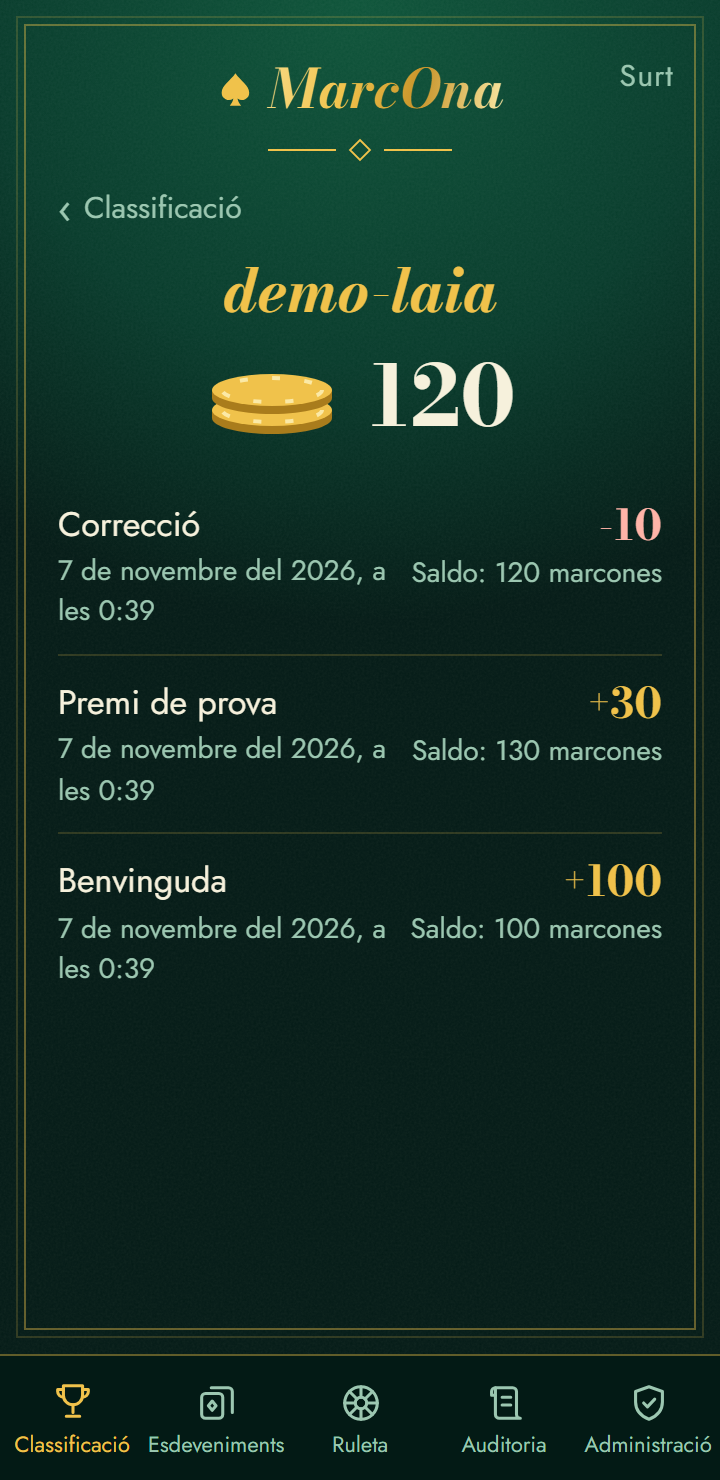
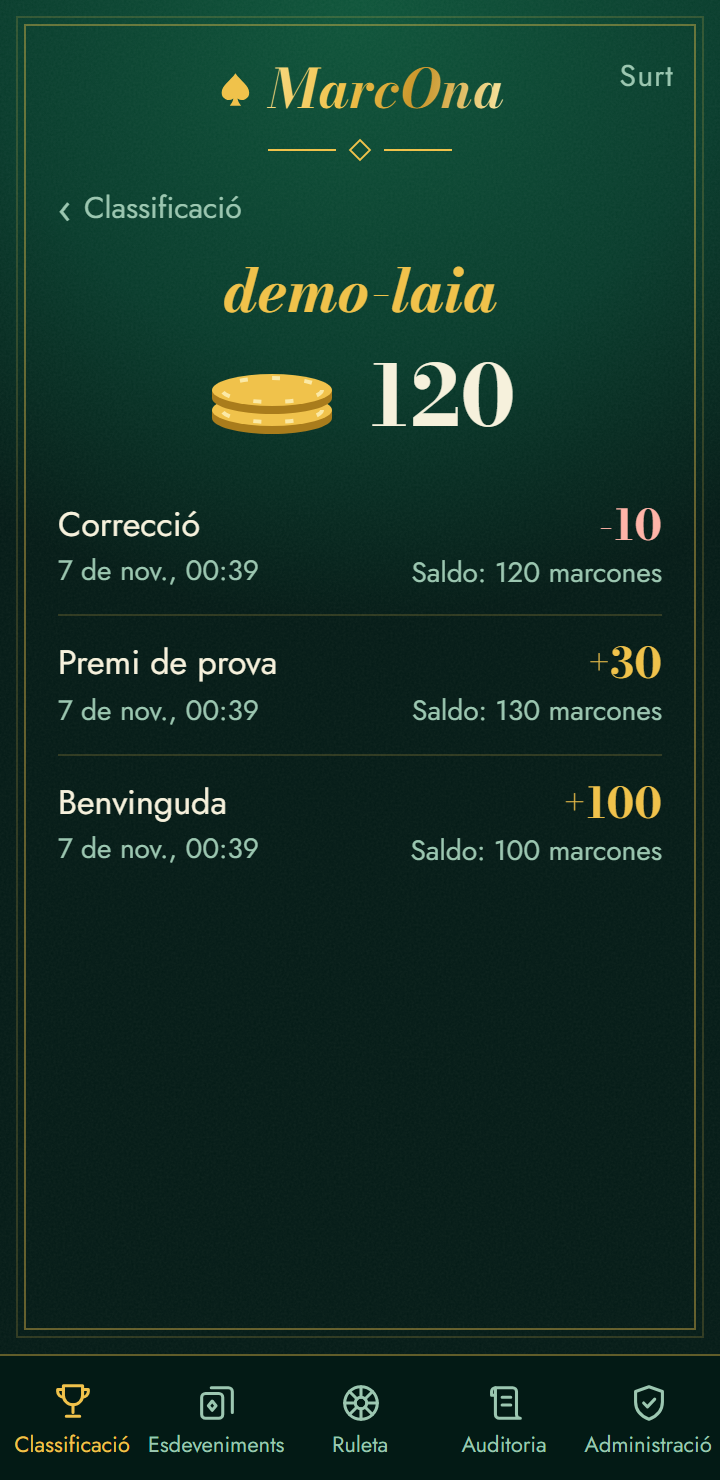
docs(review): write the slice 002 review instructions
Slice: 002

diff --git a/slices/002-users-and-marcones/review.md b/slices/002-users-and-marcones/review.md
@@ -1,0 +1,161 @@
+# Slice 002 review
+
+## 1. What to look at
+
+MarcOna now has people and money. As the admin you can create users, add or remove marcones, reset passwords and remove users. Everyone can see the ranking, anyone's movements and the audit, with chip stacks and numbers that count up.
+
+Behind the screens are the rules every later slice relies on: an append-only ledger, balances that can't go below 0, double taps that apply once, and removal that takes effect immediately.
+
+This should take about 10 minutes. You'll use your phone as the admin, and a computer as a player.
+
+## 2. Before you start
+
+- **You need:** your phone, a computer, and your admin username and password from `docs/setup.md`, step 7. The password stays with you, and it isn't in this file.
+- **Setup:** None. Three demo players already exist: `demo-laia`, `demo-nuria` and `demo-pau`. You don't need to log in as them, but their password is in the chat message that handed you this review if you want to.
+- **What's already in the audit:** rows for `claude-check` and `claude-check2`, and possibly `audit-check`. They're accounts used to rehearse these steps, and all of them are removed. Ignore them.
+- **Reset afterwards:** Step 20 logs you out. The player you create is removed in step 15. Their rows stay in the audit, and their username stays taken, until the wipe in slice 008.
+
+## 3. How to review
+
+Open https://marccompta.github.io/marcona-app/. This slice's branch is what's deployed there, so `main` isn't live until the slice closes.
+
+**On your phone, as the admin:**
+
+1. Log in. You should see **Classificació**, as in [ranking.png](evidence/screens/ranking.png): `demo-laia` on 120, then `demo-nuria` and `demo-pau` on 45, in that order because they tie, then you on 0 with a **TU** pill. The first three have gold, silver and bronze medals. The chips should land and the numbers should count up. Compare it with [direction-b.png](../001-foundation/evidence/directions/direction-b.png).
+2. Tap `demo-laia`. You should see 120 with a chip stack, and three movements, newest first: Correcció -10, Premi de prova +30 and Benvinguda +100, as in [user-detail.png](evidence/screens/user-detail.png). Each shows the balance after it.
+3. Tap **Auditoria**. You should see every movement, newest first, each with who, the amount, the concept, the balance after and the time, as in [audit.png](evidence/screens/audit.png). Set **Persona** to `demo-laia`: only those three movements stay. Set it back to **Tothom**.
+4. Tap **Administració**, as in [admin.png](evidence/screens/admin.png). In **Nou usuari**, enter the username `AB` with the password `prova-1234`, and tap **Crea l'usuari**. You should see "El nom d'usuari ha de tenir de 3 a 20 caràcters: lletres minúscules, números, guions o guions baixos." Try `anna!` and you should see the same.
+5. Enter the username `rev-anna` with the password `12345`, and tap **Crea l'usuari**. You should see "La contrasenya és massa curta."
+6. Change the password to `prova-1234`, and tap **Crea l'usuari**. You should see "S'ha creat rev-anna.", and `rev-anna` appears in **Usuaris** with 0 marcones.
+7. Tap `rev-anna` to open it, as in [admin-user.png](evidence/screens/admin-user.png). Enter **Quantitat** `10` and **Concepte** `Benvinguda`, and tap **Afegeix**. The row should show 10 marcones.
+8. Enter `4` and `Correcció`, and tap **Treu**. The row should show 6 marcones.
+9. Try each of these, and check the row still shows 6 marcones:
+   - `5` with an empty **Concepte**, then **Afegeix**: "Escriu un concepte."
+   - `1.5` with the concept `Prova`, then **Afegeix**: "La quantitat ha de ser un nombre enter d'1 o més."
+   - `0` with `Prova`, then **Afegeix**: the same message.
+   - `7` with `Massa`, then **Treu**: "El saldo no té prou marcones."
+
+**On your computer, as the player:**
+
+10. Open the same address in a private window, and log in as `rev-anna` with `prova-1234`. You should see the ranking with the **TU** pill on `rev-anna`, and four tabs with no **Administració**. Look through all four: nothing should offer to change a password.
+
+**Reset the password, on your phone:**
+
+11. Under `rev-anna`, enter **Contrasenya nova** `prova-5678`, and tap **Canvia la contrasenya**. You should see "S'ha canviat la contrasenya i s'han tancat les sessions."
+12. On the computer, reload. You should land on the login screen. Try `prova-1234`: "El nom d'usuari o la contrasenya no són correctes." Then log in with `prova-5678`, which should work.
+
+**Remove the user, on your phone:**
+
+13. Under `rev-anna`, tap **Elimina l'usuari**. You should see "Segur que vols eliminar rev-anna? No es podrà desfer.", as in [admin-remove.png](evidence/screens/admin-remove.png), and nothing has happened yet. Tap **No, cancel·la**. `rev-anna` should still be there.
+14. Tap **Elimina l'usuari** again, then **Sí, elimina**. The `rev-anna` row should disappear.
+15. On the computer, reload. You should land on the login screen. Log in with `prova-5678`: "Aquest compte ja no està actiu."
+16. On your phone, open **Classificació**: `rev-anna` shouldn't be there. Open **Auditoria**, and set **Persona** to `rev-anna (de baixa)`: their Correcció and Benvinguda are still there.
+17. In **Administració**, create `rev-anna` again with `prova-1234`. You should see "Aquest nom d'usuari ja existeix o ja s'ha fet servir."
+18. Tap your own name, then **Elimina l'usuari**, then **Sí, elimina**. You should see "No pots eliminar el teu propi compte."
+
+**On your computer, in a terminal at the repo root:**
+
+19. Run this to see where the secret key is used. You should see exactly one line, in `supabase/functions/admin-users/index.ts`, which reads it from an environment variable, so no key is in the repo:
+
+    ```
+    git grep -n "SUPABASE_SECRET_KEYS" -- src supabase
+    ```
+
+20. On your phone, tap **Surt**. You should return to the login screen.
+
+## 4. Checklist
+
+"Automatic" means section 5 already covers it, so you only need to read the result.
+
+| # | Requirement | Check | Expected result |
+|---|---|---|---|
+| 1 | REQ-035 | Steps 6, 10 | The user is created with 0 marcones, and can log in |
+| 2 | REQ-036 | Step 4 | Both bad usernames get a Catalan error, and no user is created |
+| 3 | REQ-037 | Step 17 | A removed user's username is refused |
+| 4 | REQ-038 | Step 5 | A short password gets a Catalan error, and no user is created |
+| 5 | REQ-039, REQ-060 | Steps 7, 16 | The balance rises, and the ledger row shows the amount, the Concept and the balance after |
+| 6 | REQ-040 | Step 8 | The balance falls |
+| 7 | REQ-041, REQ-042 | Step 9 | No Concept, 0 and 1.5 each get a Catalan error, and nothing changes |
+| 8 | REQ-043, REQ-061 | Step 9, plus automatic | The removal is refused, and a database constraint stops a negative balance |
+| 9 | REQ-044, REQ-045 | Steps 11, 12 | The new password works, the old one doesn't, and the session ended |
+| 10 | REQ-046 | Step 10 | A player has no password control anywhere |
+| 11 | REQ-047 | Step 13 | Nothing happens until the second confirmation |
+| 12 | REQ-048, REQ-049, REQ-050, REQ-051 | Steps 14, 15, 16 | They can't log in, their session ended, they leave the ranking, and their movements stay |
+| 13 | REQ-052 | Step 18 | A Catalan error, and you're still there |
+| 14 | REQ-053 | Automatic | A removed user's unexpired token reads nothing, and every function refuses it |
+| 15 | REQ-054 | Step 19, plus automatic | User actions go through the Edge Function, and the secret scan finds no key |
+| 16 | REQ-055 | Automatic | Players and people with no session are refused by every admin function |
+| 17 | REQ-056 | Automatic | The database refuses a second admin |
+| 18 | REQ-057 | Automatic | Of two removals of 6 from 10 at the same moment, one succeeds and 4 remain |
+| 19 | REQ-058, REQ-059 | Automatic | Every direct write is refused, and the ledger can't be changed, even by the owner |
+| 20 | REQ-062 | Automatic | Two sends with one request ID return the same result and apply once |
+| 21 | REQ-063, REQ-064, REQ-065 | Step 1 | Highest first, ties alphabetical, medals on the top three |
+| 22 | REQ-066 | Step 2 | The balance and every movement on that person |
+| 23 | REQ-067, REQ-068, REQ-069 | Step 3 | All movements, newest first, with every field, and the filter works |
+| 24 | REQ-070 | Steps 1, 2 | Chip stacks, and numbers that count up |
+
+## 5. Already checked automatically
+
+| Check | Command | Result |
+|---|---|---|
+| Unit tests, including the secret scan | `npm test` | 81 passed |
+| Tests against the hosted project | `npm run test:hosted` | 54 passed |
+| Browser tests at 360px, Chromium and WebKit, including 8 against the real project | `npm run test:e2e` | 134 passed |
+| Build, including the type check | `npm run build` | Passed |
+| Docs and traceability | `python scripts/check_docs.py` | Passed |
+| Owner-level constraints | `tests/sql/constraints.sql`, through the Supabase MCP server | 7 of 7 rejected, see [constraint-checks.md](evidence/constraint-checks.md) |
+| Supabase security advisor | MCP `get_advisors` | 3 notices, all expected: `admin_adjust` is callable by logged-in users, which it checks itself; `money_requests` has no policies, because nothing outside Postgres reads it; leaked password protection needs the Pro plan |
+| CI and deploy of this branch | GitHub Actions | Passed |
+
+**Do the tests catch mistakes?** T8 to T11 were written before their tests, so 13 behaviours were broken on purpose, one at a time. The tests caught 12. The one that survived was the double-tap lock, because the request ID still kept the money right. A test now covers the lock, and it catches that break too.
+
+**Instructions run as written:** by Claude, on the deployed site, with one browser as the phone and another as the computer, using the account `claude-check2`. Steps 1 to 18 and 20 passed, and step 19 was run in a terminal. A first run with `claude-check` failed at steps 11 and 12 because of a mistake in Claude's script, not in the app. No real phone was used, so that's still your check.
+
+**Audit by `slice-auditor`:** Pending.
+
+## 6. Known limitations
+
+- **A phone notices at its next load.** After a reset or a removal, an open screen stays as it is until that person reloads, or comes back to the tab. Live refresh is in slice 006.
+- **A reset doesn't cut off an access token at once.** The session has ended and can't be renewed, and the app signs out at its next check, but a token copied out of the browser keeps working for up to an hour. Removal has no such gap, because every policy and function checks for it.
+- **A removed user's table reads come back empty, rather than as an error.** That's how Row Level Security refuses rows. Function calls give a real error.
+- **A refused money action isn't remembered.** Only a success is stored against its request ID, so resending a refused one tries it again.
+- **Hosted test accounts pile up.** Each run of `npm run test:hosted` adds about 30 hidden accounts, which only the wipe in slice 008 clears. Nobody real ever sees them.
+- **The constraint check isn't in `npm run test:hosted`,** because that command has no owner-level access. It needs running through the MCP server after any migration that touches these tables.
+- **The Administració screen shows no removed users.** They appear only in the audit.
+- **Passwords typed on the Administració screen are visible,** so you can read them out, and there's no second field to catch a typo.
+- **You can reset your own password there.** It works, and it logs you out, and `.env.test.local` would then need updating.
+- **One browser run failed once, unexplained.** All 4 real-project tests failed in Chromium in one full run. Its log was overwritten before it was read. The Auth logs show no rate limiting at that time, and the 6 full runs since have all passed.
+- **Not tried on a real iPhone or Android.** WebKit is Safari's engine, but it isn't an iPhone.
+
+### Departures from the design
+
+For `record.md` when the slice closes.
+
+- **Task order:** T5 came straight after T1, because the money tests need a player account, which only T5 can create.
+- **Test first:** T8 to T11 were written before their tests, against the workflow. The mutation check above is what was done about it. They also share files, so they landed in one commit.
+- **T4:** it added only tests, because the grants from earlier migrations already reject direct writes.
+- **`money_requests`:** it lives in the `private` schema rather than `public`, as nothing outside Postgres needs it.
+- **`is_test`:** the design left its reach open. Only accounts made by automated tests have it, and the admin can't see them either. Demo users are ordinary accounts.
+- **Session check, added:** the app now asks Auth to confirm the session on load and when the tab comes back. Without it, a phone would stay logged in for up to an hour after a reset, which wouldn't meet REQ-045.
+- **`revoke_sessions()`, added:** it deletes `auth.sessions` rows, as the design's risk table expected, and only the secret key can call it. Hosted tests prove that the sessions end.
+- **`rls_auto_enable()`:** it can no longer be called through the API, which clears the warning slice 001 left. The migration checks that its trigger still works.
+- **`verify_jwt` is off for `admin-users`,** because Supabase's check doesn't understand the new keys. The function checks the token itself, and tests cover it.
+- **From slice 001's follow-ups:** the **TU** pill, and a summary line under the title from direction B. The line says "persones" rather than "jugadors", following the glossary's advice on gendered nouns.
+- **Migrations:** the first one, `active_users`, came back "confirmation expired" and then applied when it was sent again. It contains `drop` statements, which the Supabase server may hold for confirmation. Claude can't tell whether anyone confirmed it. The other migrations applied straight away.
+- **`execute_sql` and `deploy_edge_function`:** they have `ask` rules, and each ran with no error. Claude can't tell whether a prompt appeared.
+
+## 7. Your verdict
+
+Type one of these in a Claude Code session started at the repo root:
+
+- `/slice-verdict 002 approve`
+- `/slice-verdict 002 changes <what to fix>`
+- `/slice-verdict 002 reject <why>`
+
+## Review log
+
+### Round 1
+
+- Verdict: pending
+- Date:
+- Notes:
